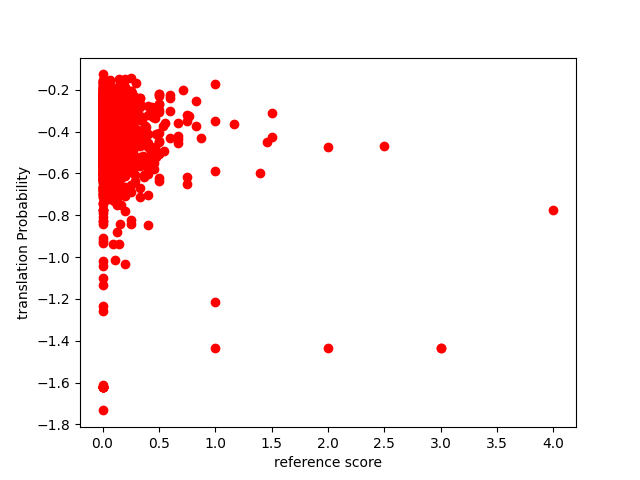
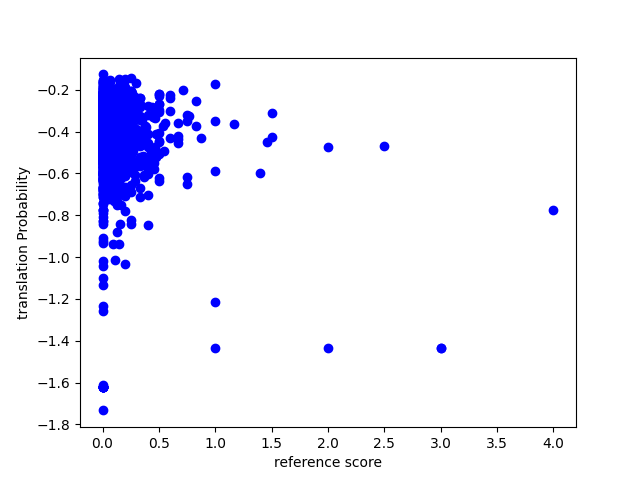
change images

diff --git a/code/plotting.py b/code/plotting.py
@@ -10,13 +10,17 @@ args.add_argument("--model", type=str, default="out")
 ref = args.parse_args().ref
 input = args.parse_args().inp
 splitting = args.parse_args().split
-model = args.parse_args().modq2el
+model = args.parse_args().model
 with open("results/seamlessallscores.txt", "r") as reffile:
     lines = reffile.readlines()
-    refs = list(
-        map(lambda x: (float(x.split("\t")[0]), float(x.split("\t")[1])), lines)
-    )
-    uniscor = [i[-5] for i in refs]
+    refs = [
+        [float(j.strip("qwertzuiopasdfghjklyxcvbn() ")) for j in i.split("\t")]
+        for i in lines
+    ]
+    # refs = list(map(lambda x: list(map(lambda: float(y), x.split("\t"))) , lines))
+    model = "seamless"
+
+    uniscore = [i[-5] for i in refs]
     uniscore2 = [i[-4] for i in refs]
     wers = [i[-3] for i in refs]
     comets = [i[-2] for i in refs]
@@ -36,9 +40,105 @@ with open("results/seamlessallscores.txt", "r") as reffile:
     dropouttranslationvar = [i[12] for i in refs]
     dropouttranslationcombo = [i[13] for i in refs]
 
+    plt.scatter(comets, translationprob, color="blue", label="Probability")
+    plt.ylabel("translation Probability")
+    plt.xlabel("reference score")
+    plt.savefig(base + model + "genprob.png")
+    plt.clf()
+
+    plt.scatter(comets, softmaxprob, color="blue", label="Entropy")
+    plt.ylabel("softmax entropy")
+    plt.xlabel("reference score")
+    plt.savefig(base + model + "entropy.png")
+    plt.clf()
+
+    plt.scatter(comets, stddiv, color="blue", label="Standard Deviation")
+    plt.ylabel("softmax standard deviation")
+    plt.xlabel("reference score")
+    plt.savefig(base + model + "stddiv.png")
+    plt.clf()
+
+    plt.scatter(comets, dropouttranslation, color="blue", label="Dropout Probability")
+    plt.ylabel("dropout translation Probability")
+    plt.xlabel("reference score")
+    plt.savefig(base + model + "dropprob.png")
+    plt.clf()
+
+    plt.scatter(comets, dropouttranslationvar, color="blue", label="Dropout Variance")
+    plt.ylabel("dropout variance")
+    plt.xlabel("reference score")
+    plt.savefig(base + model + "dropoutvariance.png")
+    plt.clf()
+
+    plt.scatter(comets, dropouttranslationcombo, color="blue", label="Dropout Combo")
+    plt.ylabel("dropout combo")
+    plt.xlabel("reference score")
+    plt.savefig(base + model + "dropoutcombo.png")
+    plt.clf()
+
+    plt.scatter(wers, dropouttranscript, color="blue", label="Dropout Combo")
+    plt.ylabel("dropout transcript Probability")
+    plt.xlabel("reference score")
+    plt.savefig(base + model + "dropouttranscript.png")
+    plt.clf()
+
+    plt.scatter(wers, dropouttranscriptvar, color="blue", label="Dropout Combo")
+    plt.ylabel("dropout transcript variance")
+    plt.xlabel("reference score")
+    plt.savefig(base + model + "dropouttranscriptvar.png")
+    plt.clf()
+
+    plt.scatter(wers, dropouttranscriptcombo, color="blue", label="Dropout Combo")
+    plt.ylabel("dropout transcript combo")
+    plt.xlabel("reference score")
+    plt.savefig(base + model + "dropouttranscriptcombo.png")
+    plt.clf()
+
+    plt.scatter(
+        wers, dropouttranscriptmean, color="blue", label="Dropout transcript mean"
+    )
+    plt.ylabel("dropout transcript mean")
+    plt.xlabel("reference score")
+    plt.savefig(base + model + "dropouttranscriptmean.png")
+    plt.clf()
+
+    plt.scatter(
+        wers,
+        dropouttranscriptmeanvar,
+        color="blue",
+        label="Dropout transcript mean variance",
+    )
+    plt.ylabel("dropout transcript mean variance")
+    plt.xlabel("reference score")
+    plt.savefig(base + model + "dropouttranscriptmeanvar.png")
+    plt.clf()
+
+    plt.scatter(
+        wers,
+        dropouttranscriptmeancombo,
+        color="blue",
+        label="Dropout transcript mean combo",
+    )
+    plt.ylabel("dropout transcript mean combo")
+    plt.xlabel("reference score")
+    plt.savefig(base + model + "dropouttranscriptmeancombo.png")
+    plt.clf()
+
+    plt.scatter(uniref, uniscore, color="blue", label="Uniscore")
+    plt.ylabel("uniscore")
+    plt.xlabel("reference score")
+    plt.savefig(base + model + "uniscore.png")
+    plt.clf()
+
+    plt.scatter(uniref, uniscore2, color="blue", label="Uniscore2")
+    plt.ylabel("uniscore with mean")
+    plt.xlabel("reference score")
+    plt.savefig(base + model + "uniscore2.png")
+    plt.clf()
+
     x = range(len(refs))
     # print(len(x), len(refs))
-    plt.scatter(x, wers, color="green", label="Reference")
+    plt.scatter(x, wers, color="blue", label="Reference")
     plt.savefig(base + model + "werref.png")
     plt.clf()
     plt.scatter(x, comets, color="blue", label="Comet")
@@ -47,51 +147,96 @@ with open("results/seamlessallscores.txt", "r") as reffile:
 if input != "ref.txt":
     with open("results/dlmallscores.txt", "r") as inpfile:
         if splitting:
+            model = "dlm"
             lines = inpfile.readlines()
             cases = [l.split(",") for l in lines]
-            inps = [list(map(float, i)) for i in cases]
-            genprop = [i[0] for i in inps]
-            entropy = [i[1] for i in inps]
-            stddiv = [i[2] for i in inps]
-            dropprop = [i[3] for i in inps]
-            dropvar = [i[4] for i in inps]
-            dropoutcombo = [i[5] for i in inps]
-            uniscor = [i[6] for i in inps]
-            uniscore2 = [i[7] for i in inps]
+            inps = [[float(j) for j in i.split("\t")] for i in lines]
             wers = [i[-3] for i in inps]
             comets = [i[-2] for i in inps]
             uniref = [i[-1] for i in inps]
-            print(
-                len(x),
-                len(genprop),
-                len(entropy),
-                len(stddiv),
-                len(dropprop),
-                len(dropvar),
-                len(comets),
-                len(wers),
-            )
-            # x = range(len(genprop))
-            plt.xlabel("reference value")
-            plt.scatter(comets, genprop, color="red", ylabel="Probability")
 
+            genprop = [i[0] for i in inps]
+            plt.scatter(comets, genprop, color="blue", label="Probability")
+            plt.ylabel("translation Probability")
+            plt.xlabel("reference score")
             plt.savefig(base + model + "genprob.png")
             plt.clf()
-            plt.scatter(comets, dropprop, color="orange", ylabel="Dropout Probability")
-            plt.savefig(base + model + "dropprob.png")
-            plt.clf()
-            plt.scatter(comets, entropy, color="green", ylabel="Entropy")
+
+            entropy = [i[1] for i in inps]
+            plt.scatter(comets, entropy, color="blue", label="Entropy")
+            plt.ylabel("softmax entropy")
+            plt.xlabel("reference score")
             plt.savefig(base + model + "entropy.png")
             plt.clf()
-            plt.scatter(comets, stddiv, color="purple", ylabel="Standard Deviation")
+
+            stddiv = [i[2] for i in inps]
+            plt.scatter(comets, stddiv, color="blue", label="Standard Deviation")
+            plt.ylabel("softmax standard deviation")
+            plt.xlabel("reference score")
             plt.savefig(base + model + "stddiv.png")
             plt.clf()
-            plt.scatter(comets, dropvar, color="black", ylabel="Dropout Variance")
+
+            dropprop = [i[3] for i in inps]
+            plt.scatter(comets, dropprop, color="blue", label="Dropout Probability")
+            plt.ylabel("dropout translation Probability")
+            plt.xlabel("reference score")
+            plt.savefig(base + model + "dropprob.png")
+            plt.clf()
+
+            dropvar = [i[4] for i in inps]
+            plt.scatter(comets, dropvar, color="blue", label="Dropout Variance")
+            plt.ylabel("dropout variance")
+            plt.xlabel("reference score")
+            plt.savefig(base + model + "dropoutvariance.png")
+            plt.clf()
+
+            dropoutcombo = [i[5] for i in inps]
+            plt.scatter(comets, dropoutcombo, color="blue", label="Dropout Combo")
+            plt.ylabel("dropout combo")
+            plt.xlabel("reference score")
+            plt.savefig(base + model + "dropoutcombo.png")
+            plt.clf()
+            uniscor = [i[6] for i in inps]
+            plt.scatter(uniref, uniscor, color="blue", label="Uniscore")
+            plt.ylabel("uniscore")
+            plt.xlabel("reference score")
+            plt.savefig(base + model + "uniscore.png")
+            plt.clf()
+
+            uniscore2 = [i[7] for i in inps]
+            plt.scatter(uniref, uniscore2, color="blue", label="Uniscore2")
+            plt.ylabel("uniscore with mean")
+            plt.xlabel("reference score")
+            plt.savefig(base + model + "uniscore2.png")
+            plt.clf()
             # plt.scatter(x, inps, color="gold", label="Reference")
         else:
             inps = list(map(float, inpfile.readlines()))
             plt.scatter(x, inps, color="blue", label="Reference")
 
-plt.xlabel("dataset lines")
-plt.ylabel("dropout variance")
-plt.savefig(base + model + "dropoutvarinace.png")
+
+with open("results/seamlessuniscores.txt", "r") as uniscore:
+    lines = uniscore.readlines()
+    refs = list(
+        map(lambda x: (float(x.split("\t")[0]), float(x.split("\t")[1])), lines)
+    )
+    alpha = [i[0] / 100 for i in refs]
+    pearsoncorr = [i[1] for i in refs]
+    plt.plot(alpha, pearsoncorr, color="blue", label="correlation of different alphas")
+    plt.xlabel("alpha")
+    plt.ylabel("pearson correlation")
+    plt.savefig(base + "seamlessuniscoredistribution.png")
+    plt.clf()
+
+with open("results/dlmuniscores.txt", "r") as dlmuniscore:
+    lines = dlmuniscore.readlines()
+    refs = list(
+        map(lambda x: (float(x.split("\t")[0]), float(x.split("\t")[1])), lines)
+    )
+    alpha = [i[0] / 100 for i in refs]
+    pearsoncorr = [i[1] for i in refs]
+    plt.plot(alpha, pearsoncorr, color="blue", label="correlation of different alphas")
+    plt.xlabel("alpha")
+    plt.ylabel("pearson correlation")
+    plt.savefig(base + "dlmuniscoredistribution.png")
+    plt.clf()
